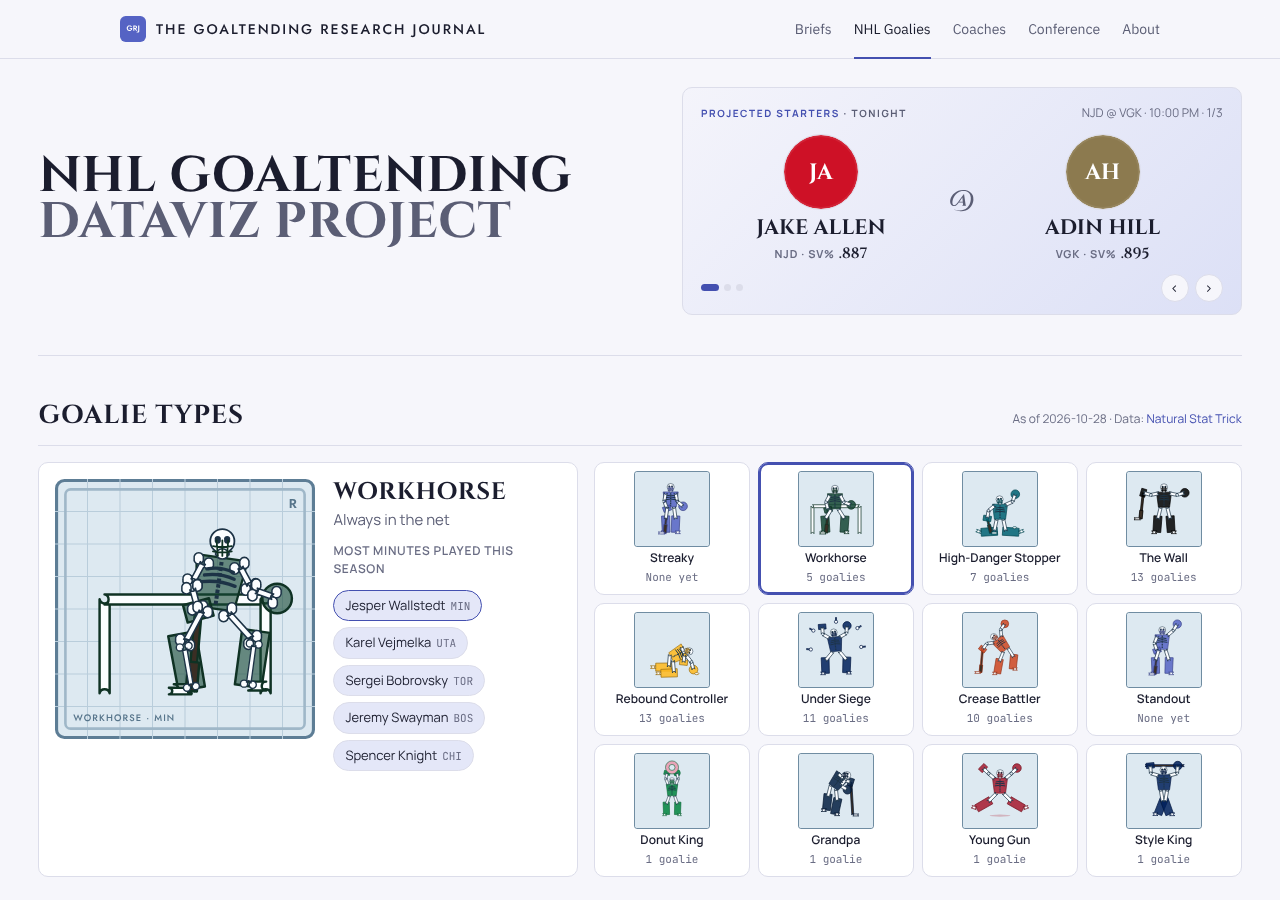
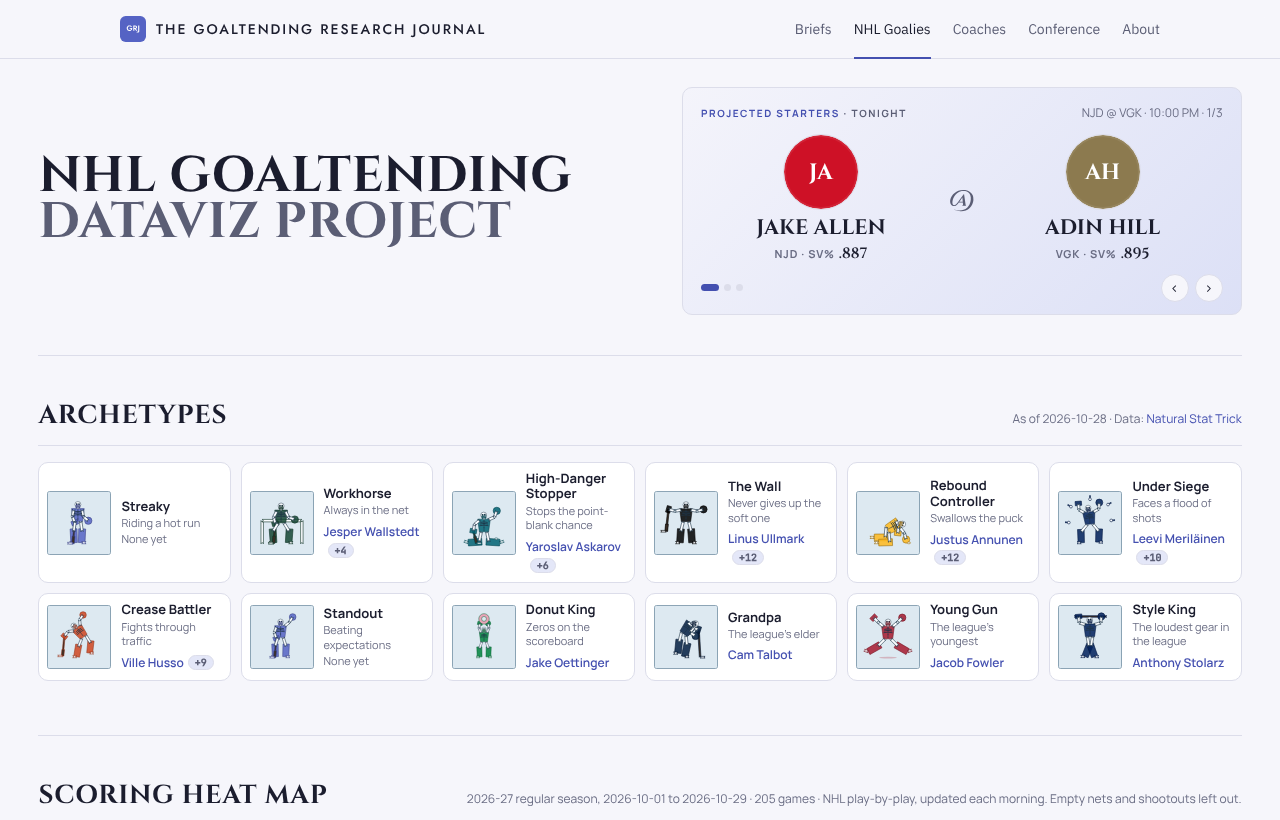
Archetypes: twelve compact cards in place of the featured card; each plays its loop on hover or focus
Claude-Session: https://claude.ai/code/session_01Y4memTcNRCe5HDjMuxoTXv

diff --git a/goalie-types-panel.js b/goalie-types-panel.js
@@ -1,41 +1,62 @@
-/* Goalie Types on goalies.html: the twelve categories from goalie-types-data.js (build_goalie_types.py, nightly), each drawn
-   as a Light Box X-ray (illustrations/styles.js "skeletons-xray") in the team colours of the goalie who leads it.
-   Only the featured card moves (12 fps loop from illustrations/motion.js, prebuilt frames, on screen only, never under
-   reduced motion); the tiles are stills. Reuses the page's $, esc, byId and openGoalie. Data courtesy of Natural Stat Trick. */
+/* Archetypes on goalies.html: the twelve goalie types from goalie-types-data.js (build_goalie_types.py, nightly), each a
+   compact card with a Light Box X-ray (illustrations/styles.js "skeletons-xray") in the team colours of the goalie who
+   leads it. Cards are stills; a card plays its loop (illustrations/motion.js, 12 fps, prebuilt frames) only while it is
+   hovered or focused, and never under reduced motion. Reuses the page's $, esc, byId and openGoalie.
+   Data courtesy of Natural Stat Trick. */
 (async () => {
   const D = window.GOALIE_TYPES, G = window.GoalieSkeleton, ST = window.GoalieStyles, MO = window.GoalieMotion;
   if (!D || !G || !ST || !MO) return;
   let TEAMS;
   try { TEAMS = (await (await fetch("illustrations/team-colours.json")).json()).teams; } catch { return; }
-  const draw = ST.STYLES["skeletons-xray"].draw, FPS = 12;
-  const NEUTRAL = { name: "League", primary: "#5563C4", secondary: "#FFFFFF", accent: "#AEB6F5", code: "NHL" };     // a type nobody holds yet
+  const draw = ST.STYLES["skeletons-xray"].draw, FPS = 12, SIZE = 64;
+  const NEUTRAL = { name: "League", primary: "#5563C4", secondary: "#FFFFFF", accent: "#AEB6F5", code: "NHL" };   // a type nobody holds yet
   // The value each trait type is ranked on (the z-scores in the data); titles have one holder
   const Z = { workhorse: "toi", "hd-stopper": "hd60", wall: "ldmd60", rebound: "reb100", siege: "sa60", crease: "hdshare" };
   const types = G.ORDER.map((k) => D.types.find((t) => t.key === k)).filter(Boolean);
   const members = (t) => D.goalies.filter((g) => g.type === t.key)
     .sort((a, b) => ((b.z || {})[Z[t.key]] ?? 0) - ((a.z || {})[Z[t.key]] ?? 0) || a.name.localeCompare(b.name));
-  const lead = (t) => members(t)[0];
   const colours = (g) => (g && TEAMS[g.team] ? { ...TEAMS[g.team], code: g.team } : NEUTRAL);
-  // One scale per loop, from the highest point of its three keys, so the figure doesn't jump between frames
-  const top = (k) => Math.min(...[0, 1, 2].map((i) => G.parts(MO.keyPose(k, i)).top));
+  const top = (k) => Math.min(...[0, 1, 2].map((i) => G.parts(MO.keyPose(k, i)).top));   // one scale per loop
+  const who = (g) => `<button type="button" data-id="${g.id ?? ""}"${byId.has(g.id) ? "" : " disabled"}>${esc(g.name)}<span class="t">${esc(g.team)}</span></button>`;
 
   $("#tySec").hidden = false;
   $("#tyNote").innerHTML = `As of ${esc(D.asOf)} · Data: <a href="https://www.naturalstattrick.com">Natural Stat Trick</a>`;
-  $("#tyTiles").innerHTML = types.map((t) => {
-    const n = members(t).length;
-    return `<button type="button" class="ty-tile" data-k="${t.key}" aria-pressed="false">${draw(t.key, colours(lead(t)), "", { size: 76, label: "" })}
-      <b>${esc(t.name)}</b><span>${n ? `${n} goalie${n === 1 ? "" : "s"}` : "None yet"}</span></button>`;
+  $("#tyGrid").innerHTML = types.map((t) => {
+    const gs = members(t), g = gs[0];
+    return `<li class="ty-card" data-k="${t.key}" tabindex="-1"><div class="ty-art">${draw(t.key, colours(g), "", { size: SIZE, topY: top(t.key), label: `${t.name}, drawn as an X-ray skeleton` })}</div>
+      <div class="ty-txt"><h3>${esc(t.name)}</h3><p>${esc(t.trait)}</p>
+      ${g ? `<div class="ty-row"><button type="button" class="ty-lead" data-id="${g.id ?? ""}"${byId.has(g.id) ? "" : " disabled"} title="${esc(g.name)}">${esc(g.name)}</button>${gs.length > 1 ? `<button type="button" class="ty-more" data-k="${t.key}" aria-label="All ${gs.length} ${esc(t.name)} goalies">+${gs.length - 1}</button>` : ""}</div>`
+        : `<p>None yet</p>`}</div></li>`;
   }).join("");
 
-  const reduce = matchMedia("(prefers-reduced-motion: reduce)").matches, frames = {};
-  let cur = null, t0 = 0, last = 0, onScreen = false, lit = false, tpl = document.createElement("template");
+  // The full list of a type, in a popover under its "+N" button
+  const pop = document.createElement("div");
+  pop.className = "ty-pop"; pop.setAttribute("popover", "auto"); document.body.append(pop);
+  const canPop = typeof pop.showPopover === "function";
+  $("#tyGrid").addEventListener("click", (e) => {
+    const more = e.target.closest(".ty-more");
+    if (more && canPop) {
+      const t = types.find((x) => x.key === more.dataset.k), r = more.getBoundingClientRect();
+      pop.innerHTML = `<h4>${esc(t.name)} · ${esc(t.rule)}</h4><ul>${members(t).map((g) => `<li>${who(g)}</li>`).join("")}</ul>`;
+      Object.assign(pop.style, { position: "fixed", inset: "auto", top: `${Math.min(r.bottom + 6, innerHeight - 40)}px`, left: `${Math.max(8, Math.min(r.left - 120, innerWidth - 330))}px` });
+      pop.showPopover();
+      return;
+    }
+    const b = e.target.closest("button[data-id]");
+    if (b && b.dataset.id) openGoalie(+b.dataset.id);
+  });
+  pop.addEventListener("click", (e) => { const b = e.target.closest("button[data-id]"); if (b && b.dataset.id) { pop.hidePopover(); openGoalie(+b.dataset.id); } });
+
+  // Motion: the hovered or focused card plays its loop; leaving it shows the still again
+  if (matchMedia("(prefers-reduced-motion: reduce)").matches) return;
+  const frames = {}, tpl = document.createElement("template"), idle = window.requestIdleCallback || ((f) => setTimeout(() => f(null), 16));
+  let live = null, t0 = 0, last = 0, still = null;
   function build(k) {
-    if (frames[k] || reduce) return;
-    const out = (frames[k] = []), n = Math.round(MO.loopMs(k) * FPS / 1000), tk = colours(lead(types.find((t) => t.key === k))), y = top(k);
-    const idle = window.requestIdleCallback || ((f) => setTimeout(() => f(null), 16));
+    if (frames[k]) return;
+    const out = (frames[k] = []), n = Math.round(MO.loopMs(k) * FPS / 1000), tk = colours(members(types.find((t) => t.key === k))[0]), y = top(k);
     const step = (dl) => {
       while (out.length < n && (!dl || dl.timeRemaining() > 2)) {
-        tpl.innerHTML = draw(MO.poseAt(k, out.length * 1000 / FPS), tk, "", { topY: y, label: "" });
+        tpl.innerHTML = draw(MO.poseAt(k, out.length * 1000 / FPS), tk, "", { size: SIZE, topY: y, label: "" });
         out.push(tpl.content.firstElementChild);
         if (!dl) break;
       }
@@ -43,34 +64,20 @@
     };
     idle(step);
   }
-  function show(k) {
-    const t = types.find((x) => x.key === k), gs = members(t);
-    cur = k; t0 = performance.now();
-    document.querySelectorAll(".ty-tile").forEach((b) => b.setAttribute("aria-pressed", b.dataset.k === k));
-    $("#tyFeat").innerHTML = `<div class="ty-stage" id="tyStage">${draw(k, colours(gs[0]), "", { topY: top(k), label: `${t.name}, drawn as an X-ray skeleton` })}</div>
-      <div><h3>${esc(t.name)}</h3><p class="ty-trait">${esc(t.trait)}</p><p class="ty-rule">${esc(t.rule)}</p>
-      ${gs.length ? `<ul class="ty-who">${gs.map((g) => `<li><button type="button" data-id="${g.id ?? ""}"${byId.has(g.id) ? "" : " disabled"}>${esc(g.name)}<span class="t">${esc(g.team)}</span></button></li>`).join("")}</ul>`
-        : `<p class="ty-none">No goalie meets this one yet.</p>`}</div>`;
-    if (onScreen) build(k);
-  }
-  $("#tyTiles").addEventListener("click", (e) => { const b = e.target.closest(".ty-tile"); if (b) show(b.dataset.k); });
-  $("#tyFeat").addEventListener("click", (e) => { const b = e.target.closest("button[data-id]"); if (b && b.dataset.id) openGoalie(+b.dataset.id); });
-  new IntersectionObserver((es) => es.forEach((e) => {
-    onScreen = e.isIntersecting;
-    if (onScreen && !reduce) {
-      if (!lit) { lit = true; $("#tyStage")?.classList.add("warm"); }
-      build(cur);
-    }
-  }), { rootMargin: "100px" }).observe($("#tyFeat"));
-  const first = types.find((t) => members(t).length) || types[0];          // open on a type someone holds
-  show(first.key);
-  if (reduce) return;
-  (function tick(now) {
-    if (onScreen && now - last >= 1000 / FPS) {
+  const start = (card) => { if (!card || card === live) return; stop(); live = card; still = card.querySelector(".ty-art svg"); t0 = performance.now(); build(card.dataset.k); requestAnimationFrame(tick); };
+  const stop = () => { if (live && still) live.querySelector(".ty-art").replaceChildren(still); live = null; };
+  function tick(now) {
+    if (!live) return;
+    if (now - last >= 1000 / FPS) {
       last = now;
-      const f = frames[cur], stage = $("#tyStage");
-      if (f && f.ready && stage) { const node = f[Math.floor((now - t0) * FPS / 1000) % f.length]; if (stage.firstElementChild !== node) stage.replaceChildren(node); }
+      const f = frames[live.dataset.k];
+      if (f && f.ready) { const art = live.querySelector(".ty-art"), node = f[Math.floor((now - t0) * FPS / 1000) % f.length]; if (art.firstElementChild !== node) art.replaceChildren(node); }
     }
     requestAnimationFrame(tick);
-  })(performance.now());
+  }
+  const grid = $("#tyGrid");
+  grid.addEventListener("pointerover", (e) => { if (e.pointerType === "mouse") start(e.target.closest(".ty-card")); });
+  grid.addEventListener("pointerleave", stop);
+  grid.addEventListener("focusin", (e) => start(e.target.closest(".ty-card")));
+  grid.addEventListener("focusout", (e) => { if (!grid.contains(e.relatedTarget)) stop(); });
 })();

diff --git a/goalies.html b/goalies.html
@@ -145,30 +145,27 @@ h1 span{color:var(--fog);display:block}
 h2{font-family:var(--f-display);font-weight:700;font-size:26px;text-transform:uppercase;letter-spacing:.03em;margin:0}
 .note{color:var(--mute);font-size:12px}
 
-/* goalie types: one featured Light Box card that plays its loop, beside twelve stills to pick from */
-.ty-grid{display:grid;grid-template-columns:minmax(0,5fr) minmax(0,6fr);gap:16px;margin-top:16px}
-.panel.ty-feat{display:grid;grid-template-columns:minmax(0,260px) minmax(0,1fr);gap:18px;align-items:start}
-.ty-stage svg{display:block;width:100%;height:auto;border-radius:4px}
-.ty-feat h3{margin:0;font-family:var(--f-display);font-size:24px;text-transform:uppercase;letter-spacing:.03em;line-height:1.1}
-.ty-trait{margin:4px 0 0;color:var(--fog);font-size:15px}
-.ty-rule{margin:10px 0 0;color:var(--mute);font-size:12px;text-transform:uppercase;letter-spacing:.06em;font-weight:600}
-.ty-who{display:flex;flex-wrap:wrap;gap:6px;margin:12px 0 0;padding:0;list-style:none}
-.ty-who button{border:1px solid var(--line);background:var(--glass);border-radius:999px;padding:5px 11px;font-size:13px;cursor:pointer;color:var(--chalk)}
-.ty-who button:hover{border-color:var(--crease)}
-.ty-who .t{color:var(--mute);font-size:11px;margin-left:5px;font-family:var(--f-data)}
-.ty-none{margin:12px 0 0;color:var(--mute);font-size:13px}
-.ty-tiles{display:grid;grid-template-columns:repeat(4,minmax(0,1fr));gap:8px}
-.ty-tile{display:grid;justify-items:center;gap:4px;padding:8px 6px;border:1px solid var(--line);border-radius:var(--r);background:var(--boards);cursor:pointer;color:var(--chalk);min-width:0}
-.ty-tile svg{display:block;width:100%;max-width:76px;height:auto;border-radius:3px}
-.ty-tile b{font-size:12px;font-weight:600;line-height:1.2;text-align:center}
-.ty-tile span{font-size:11px;color:var(--mute);font-family:var(--f-data)}
-.ty-tile[aria-pressed="true"]{border-color:var(--crease);box-shadow:0 0 0 2px var(--crease) inset}
-.ty-tile:hover{border-color:var(--crease)}
-@keyframes ty-warm{from{filter:brightness(.45) saturate(.3)}70%{filter:brightness(.92) saturate(.9)}to{filter:none}}
-.ty-stage.warm{animation:ty-warm .8s steps(8,end) both}
-@media (prefers-reduced-motion:reduce){.ty-stage.warm{animation:none}}
-@media (max-width:1100px){ .ty-grid{grid-template-columns:minmax(0,1fr)} }
-@media (max-width:620px){ .panel.ty-feat{grid-template-columns:minmax(0,1fr)} .ty-stage{max-width:300px} .ty-tiles{grid-template-columns:repeat(3,minmax(0,1fr))} }
+/* archetypes: twelve compact cards, each a Light Box still that plays its loop on hover or focus */
+.ty-grid{display:grid;grid-template-columns:repeat(6,minmax(0,1fr));gap:10px;margin-top:16px;padding:0;list-style:none}
+.ty-card{display:grid;grid-template-columns:64px minmax(0,1fr);gap:10px;align-items:center;padding:8px;border:1px solid var(--line);border-radius:var(--r);background:var(--boards);min-width:0}
+.ty-card:hover,.ty-card:focus-within{border-color:var(--crease)}
+.ty-art svg{display:block;width:64px;height:64px;border-radius:3px}
+.ty-txt{min-width:0}
+.ty-txt h3{margin:0;font-size:13px;font-weight:700;line-height:1.2}
+.ty-txt p{margin:2px 0 0;font-size:11px;color:var(--mute);line-height:1.3}
+.ty-row{margin-top:4px;line-height:1.35}
+.ty-lead{display:inline;padding:0;border:0;background:none;color:var(--crease);font-size:12px;font-weight:600;cursor:pointer;text-align:left}
+.ty-lead:disabled{color:var(--mute);cursor:default;font-weight:500}
+.ty-more{margin-left:4px;padding:0 6px;vertical-align:1px;border:1px solid var(--line);border-radius:999px;background:var(--glass);color:var(--fog);font:600 10px var(--f-data);cursor:pointer}
+.ty-pop{margin:0;padding:10px;border:1px solid var(--line);border-radius:var(--r);background:var(--boards);color:var(--chalk);box-shadow:0 8px 24px var(--shadow);max-width:min(320px,90vw)}
+.ty-pop h4{margin:0 0 6px;font-size:12px;text-transform:uppercase;letter-spacing:.06em;color:var(--mute)}
+.ty-pop ul{margin:0;padding:0;list-style:none;display:grid;gap:2px}
+.ty-pop button{border:0;background:none;padding:4px 2px;color:var(--chalk);font-size:13px;cursor:pointer;text-align:left;width:100%}
+.ty-pop button:hover{color:var(--crease)}
+.ty-pop .t{color:var(--mute);font:11px var(--f-data);margin-left:6px}
+@media (max-width:1200px){ .ty-grid{grid-template-columns:repeat(4,minmax(0,1fr))} }
+@media (max-width:860px){ .ty-grid{grid-template-columns:repeat(3,minmax(0,1fr))} }
+@media (max-width:620px){ .ty-grid{grid-template-columns:repeat(2,minmax(0,1fr))} .ty-card{grid-template-columns:52px minmax(0,1fr);gap:8px;padding:6px} .ty-art svg{width:52px;height:52px} }
 
 
 /* leaderboard: one big cumulative chart with a ranked legend beside it, and a range stepper (Vercel AI Gateway leaderboard pattern).
@@ -415,11 +412,8 @@ tbody tr:last-child td{border-bottom:0}
   </section>
 
   <section id="tySec" hidden>
-    <div class="sec-h"><h2>Goalie Types</h2><span class="note" id="tyNote"></span></div>
-    <div class="ty-grid">
-      <div class="panel ty-feat" id="tyFeat" aria-live="polite"></div>
-      <div class="ty-tiles" id="tyTiles" role="group" aria-label="Goalie types"></div>
-    </div>
+    <div class="sec-h"><h2>Archetypes</h2><span class="note" id="tyNote"></span></div>
+    <ul class="ty-grid" id="tyGrid" aria-label="Goalie archetypes"></ul>
   </section>
 
   <section id="gmSec">
